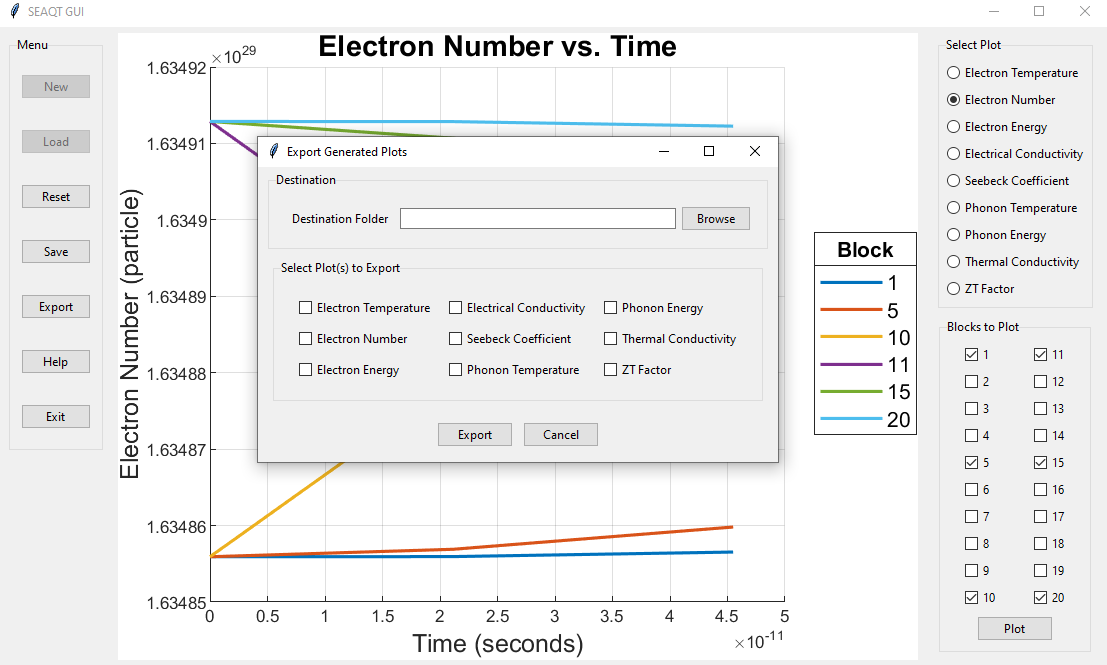
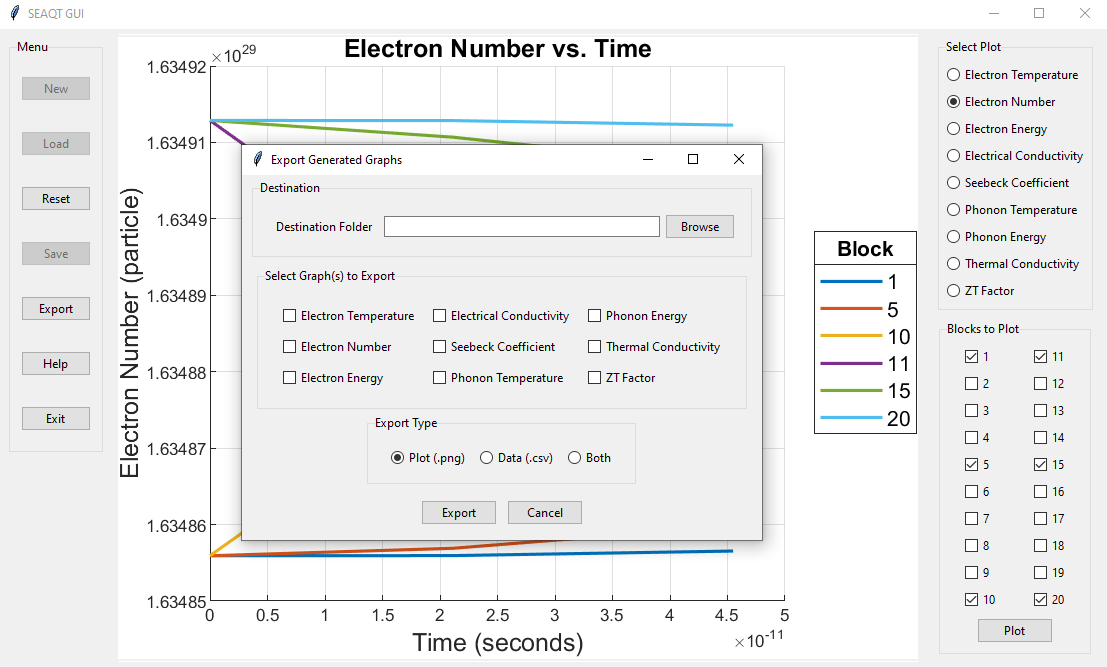
Version 1.2

diff --git a/Frontend/SEAQT_GUI.py b/Frontend/SEAQT_GUI.py
@@ -60,6 +60,17 @@ class RunType(IntEnum):
     BOTH = 3
 
 
+class ExportType(IntEnum):
+    '''
+    Enum to map export type to a number for faster acquisition
+    '''
+    INVALID = -1,
+    UNKNOWN = 0,
+    PLOT = 1,
+    DATA = 2,
+    BOTH = 3
+
+
 class SEAQTGui():
     '''
     GUI class for SEAQT handler.
@@ -246,6 +257,9 @@ class SEAQTGui():
         self.plot_variables = []
         self.plot_checkbuttons = []
         self.selected_plots = []
+
+        self.graph_export_buttons = None
+        self.selected_export_type = IntVar(value=ExportType.PLOT.value)
 
         # Run the GUI
         self.activate_main_window()
@@ -1889,7 +1903,7 @@ class SEAQTGui():
         Allow the user to export the generated plots.
         '''
         export_window = Toplevel(self.tkinter_root)
-        export_window.title('Export Generated Plots')
+        export_window.title('Export Generated Graphs')
         # export_window.resizable(False, False)
         export_window.grab_set()
 
@@ -1929,7 +1943,7 @@ class SEAQTGui():
         # Create frame for plot selection
         plot_select_frame = ttk.LabelFrame(
             export_window,
-            text='Select Plot(s) to Export',
+            text='Select Graph(s) to Export',
             padding=15
         )
         plot_select_frame.grid(column=0, row=1, padx=5, pady=5)
@@ -1950,14 +1964,59 @@ class SEAQTGui():
             check_btn.grid(column=(i // (num_of_plots // 3)) % 3, row=i % (num_of_plots // 3), padx=7, pady=5, sticky=W)
             self.plot_checkbuttons.append(check_btn)
 
+        #################################
+        # Start frame for export type #
+        #################################
+
+        # Create frame for plot selection
+        export_type_frame = ttk.LabelFrame(
+            export_window,
+            text='Export Type',
+            padding=15
+        )
+        export_type_frame.grid(column=0, row=2, padx=5)
+
+        self.graph_export_buttons = []
+
+        # Export plot only
+        export_plot_button = ttk.Radiobutton(
+            export_type_frame,
+            text='Plot (.png)',
+            variable=self.selected_export_type,
+            value=ExportType.PLOT.value
+        )
+        export_plot_button.grid(column=0, row=0, padx=5)
+        self.graph_export_buttons.append(export_plot_button)
+
+        # Export data only
+        export_data_button = ttk.Radiobutton(
+            export_type_frame,
+            text='Data (.csv)',
+            variable=self.selected_export_type,
+            value=ExportType.DATA.value
+        )
+        export_data_button.grid(column=1, row=0, padx=5)
+        self.graph_export_buttons.append(export_data_button)
+
+        # Export both plot and data
+        export_both_button = ttk.Radiobutton(
+            export_type_frame,
+            text='Both',
+            variable=self.selected_export_type,
+            value=ExportType.BOTH.value
+        )
+        export_both_button.grid(column=2, row=0, padx=5)
+        self.graph_export_buttons.append(export_both_button)
+
         ##################################
         # Start frame for bottom buttons #
         ##################################
+        
         button_frame = ttk.Frame(
             export_window,
             padding=10
         )
-        button_frame.grid(column=0, row=2, padx=5, pady=5)
+        button_frame.grid(column=0, row=3, padx=5, pady=5)
 
         ttk.Button(
             button_frame,
@@ -1991,25 +2050,52 @@ class SEAQTGui():
 
         num_selected_plots = len(self.selected_plots)
         if num_selected_plots == 0:
-            self.pop_up_error('No Plot(s) Selected. Please Choose at Least One.')
+            self.pop_up_error('No Graph(s) Selected. Please Choose at Least One.')
             return
 
         curr_time = time.time()
-        failed_plots = []
-        for plot_number in self.selected_plots:
-            try:
-                copyfile(f'Figures/{plot_number + 1}.png', os.path.join(self.export_directory.get(), f'{self.PLOT_NAMES[plot_number]}_{curr_time}.png'))
-            except Exception as e:
-                print(e)
-                failed_plots.append(plot_number)
 
-        num_failed_plots = len(failed_plots)
-        if num_failed_plots > 0:
-            self.pop_up_error(f"Failed to save {num_failed_plots} plot{'s' if num_failed_plots > 1 else ''}\n\nData may be missing or corrupted, or there may be an internal bug.\n\nPlease try again; if the problem persists, please open a ticket at https://github.com/azsprague/seaqt-gui/issues.")
+        successful_exports = []
+        failed_exports = []
+
+        # Export plots if "Plot" or "Both" is chosen
+        if self.selected_export_type.get() == ExportType.PLOT.value or self.selected_export_type.get() == ExportType.BOTH.value:
+        
+            for plot_number in self.selected_plots:
+                try:
+                    copyfile(f'Figures/{plot_number + 1}.png', os.path.join(self.export_directory.get(), f'{self.PLOT_NAMES[plot_number]}_{curr_time}.png'))
+                    successful_exports.append(plot_number)
+                except Exception as e:
+                    print(e)
+                    failed_exports.append(plot_number)
+
+        # Export data if "Data" or "Both" is chosen
+        if self.selected_export_type.get() == ExportType.DATA.value or self.selected_export_type.get() == ExportType.BOTH.value:
+
+            for plot_number in self.selected_plots:
+                try:
+                    copyfile(f'tmp/{plot_number + 1}.csv', os.path.join(self.export_directory.get(), f'{self.PLOT_NAMES[plot_number]}_{curr_time}.csv'))
+                    successful_exports.append(plot_number)
+                except Exception as e:
+                    print(e)
+                    failed_exports.append(plot_number)
+
+        # Check for failed exports
+        num_failed_exports = len(failed_exports)
+        if num_failed_exports > 0:
+            self.pop_up_error(f"Failed to export {num_failed_exports} files{'s' if num_failed_exports > 1 else ''}\n\nData may be missing or corrupted, or there may be an internal bug.\n\nPlease try again; if the problem persists, please open a ticket at https://github.com/azsprague/seaqt-gui/issues.")
             return
 
         # Release control and close the window
-        self.pop_up_info(f"{num_selected_plots} plot{'s' if num_selected_plots > 1 else ''} successfully saved.")
+        num_successful_exports = len(successful_exports)
+        self.pop_up_info(f"{num_successful_exports} file{'s' if num_successful_exports > 1 else ''} successfully saved.")
+        
+        # Reset choices
+        self.export_directory.set('')
+        self.selected_plots = []
+        self.selected_export_type.set(ExportType.PLOT.value)
+
+        # Release control and close the winow
         export_window.grab_release()
         export_window.destroy()
 
@@ -2022,6 +2108,8 @@ class SEAQTGui():
         '''
         # Reset choices
         self.export_directory.set('')
+        self.selected_plots = []
+        self.selected_export_type.set(ExportType.PLOT.value)
 
         # Release control and close the winow
         export_window.grab_release()

diff --git a/README.md b/README.md
@@ -32,6 +32,7 @@ Further discussion can be found in the file `Introduction.pdf`.
 | :-----: | :------: | :----------------: |
 |   1.0   | 05.05.23 | First Full Release |
 |   1.1   | 08.26.23 | Reduced Window Sizes |
+|   1.2   | 08.30.23 | Added .csv Data Export Option |
 
 ---
 
@@ -114,11 +115,12 @@ When the plotting is complete, you can select which plot to display by clicking 
 ![Plotting 2](Figures/Plotting%202.png)
 
 
-#### Export Plots
-If you would like to save the plots you've generated, click the `Export` button to open a window to select a destination and which plots to export. Plots will be named as "PlotName_Timestamp.png" by default.
+#### Export Graphs
+If you would like to save the graphs you've generated, click the `Export` button to open a window to select a destination and which graphs to export. You can save both the plot (.png) and the data (.csv) generated from the run. Graphs will be named as "GraphName_Timestamp.png" by default.
 
 ![Save Plots](Figures/Save%20Plots.png)
 
+![Exported Data](Figures/Saved%20Data.png)
 
 #### Save & Load Runs
 SEAQT runs can be saved and loaded by using the `Save` and `Load` buttons, respectively. This was created to save time for subsequent runs. The file format is a `.zip` archive containing data produced from the backend along with the parameters inputted to the GUI.
@@ -135,7 +137,10 @@ Q. *The GUI is not responding to inputs and says "Not Responding" at the top?*
 A. This is likely because the SEAQT backend is currently running. Depending on your inputted run length and type, this process may take a while.
 
 Q. *The SEAQT backend completed but states the data may be corrupted / the plots are empty?*
-A. Many times this can occur when the run length is not sufficiently long enough. Try running with a longer run length or switch to `Max(tau)` instead of `Min(tau)`. If the problem persists, please create a ticket at [here](https://github.com/azsprague/seaqt-gui/issues).
+A. Many times this can occur when the run length is not sufficiently long enough. Try running with a longer run length or switch to `Max(tau)` instead of `Min(tau)`. If the problem persists, please create a ticket [here](https://github.com/azsprague/seaqt-gui/issues).
 
 Q. *When I run the SEAQT backend with a large run length, my system slows down significantly?*
 A. The longer the run length, the more RAM / memory the SEAQT backend will require, which can lead to a slowing-down of your system.
+
+Q. *The GUI is behaving strangely or is not working after performing several tasks?*
+A. The first thing to try is closing and re-opening the GUI. If the problem persists, please create a ticket [here](https://github.com/azsprague/seaqt-gui/issues).
